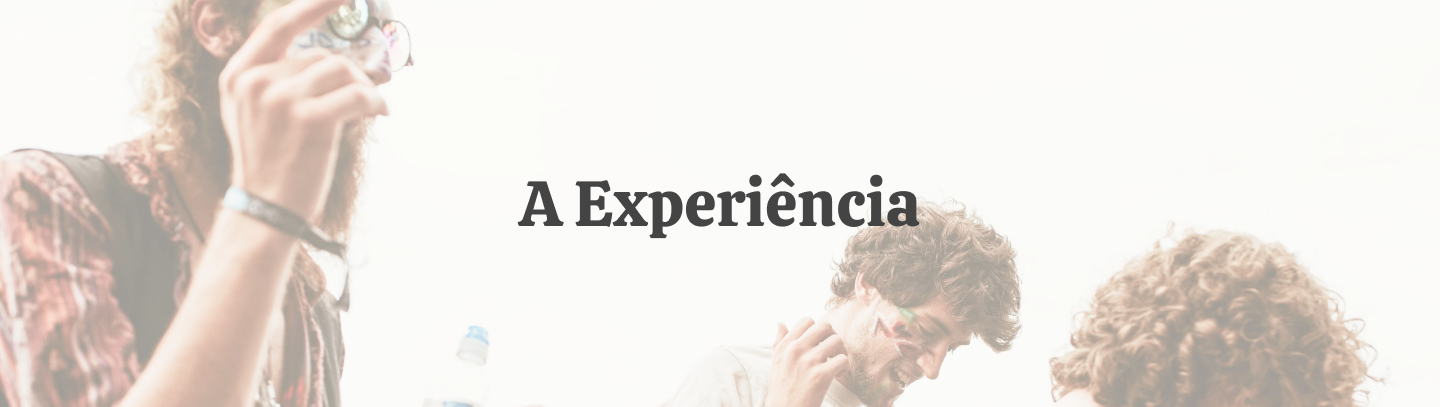
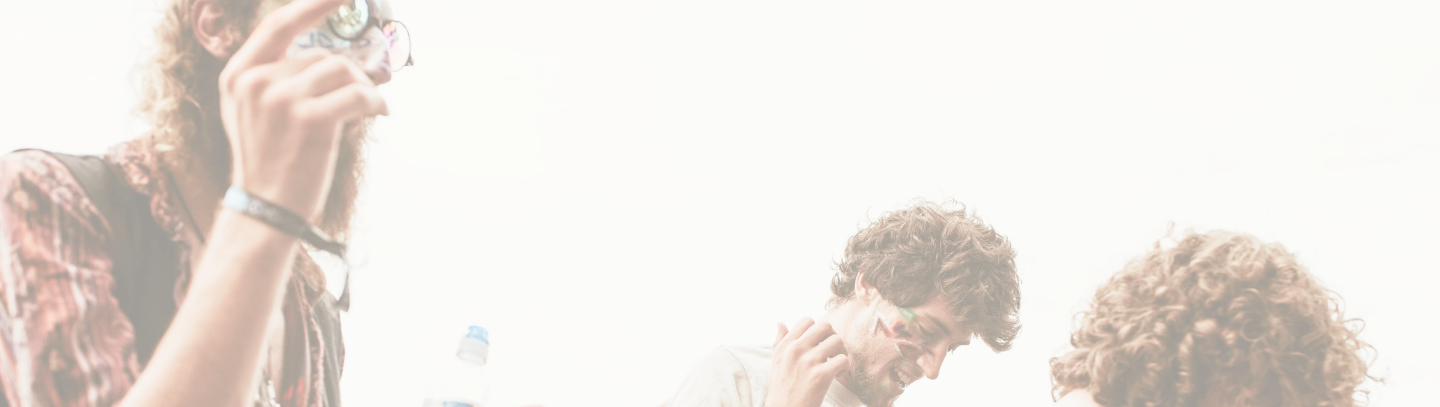
refatorando paginas prontas

Changed region(s): [[0.3438, 0.4128, 0.6562, 0.5897]]

diff --git a/src/pages/Setores/index.jsx b/src/pages/Setores/index.jsx
@@ -1,9 +1,7 @@
 import Banner from '../../components/Banner';
 import styles from './Setores.module.scss';
 import detalhes from './detalhes.json';
-import bannerDesktop from '/Setores/setores-banner_g.png';
-import bannerTablet from '/Setores/setores-banner_m.png';
-import bannerMobile from '/Setores/setores-banner_s.png';
+import bannerDesktop from '/Setores/setores-banner_s_m_g.png';
 
 
 export default function Setores(){
@@ -12,12 +10,11 @@ export default function Setores(){
       <Banner
         src={bannerDesktop}
         alt="céu azul"
-        srcsetTablet={bannerTablet}
-        srcsetMobile={bannerMobile}
+        titulo="Mapa de Setores"
       />
 
       <div className={styles.mapa}>
-        <img src="/mapa-setores.png" alt="mapa de setores" />
+        <img src="/Setores/mapa-setores.png" alt="mapa de setores" />
         <div className={styles.mapa__legenda}>
           <h6>Legenda</h6>
           <ul>

diff --git a/src/pages/Home/index.jsx b/src/pages/Home/index.jsx
@@ -2,9 +2,9 @@ import BuyTicketButton from '../../components/BuyTicketButton';
 import LineUp from './LineUp';
 import styles from './Home.module.scss';
 import Banner from '../../components/Banner';
-import bannerDesktop from '/home-banner-desktop.png';
-import bannerTablet from '/home-banner-tablet.png';
-import bannerMobile from '/home-banner-mobile.png';
+import bannerDesktop from '/Home/home-banner_g.png';
+import bannerTablet from '/Home/home-banner_m.png';
+import bannerMobile from '/Home/home-banner_s.png';
 
 export default function Home() {
   return (
@@ -14,6 +14,7 @@ export default function Home() {
         alt="foto do brinquedo chapéu mexicano"
         srcsetTablet={bannerTablet}
         srcsetMobile={bannerMobile}
+        titulo="Boas-vindas ao #CodeChella2023!"
       />
 
       <div className={styles.container}>

diff --git a/src/components/Banner/Banner.module.scss b/src/components/Banner/Banner.module.scss
@@ -1,4 +1,23 @@
-.banner picture *{
-  height: 405px; 
-  width: 100%;
+@import 'src/styles/variables';
+@import 'src/styles/breakpoints';
+
+.banner {
+  position: relative;
+  h1{
+    color: $cinza;
+    position: absolute;
+    width: 100%;
+    text-align: center;
+    z-index: 5;
+    top: 40%;
+    right: 0;    
+    font-family: 'Calistoga';
+    font-weight: 400;
+    font-size: 4rem;
+    line-height: 83px;
+  }
+  picture *{
+    height: 405px; 
+    width: 100%;
+  }
 }

diff --git a/src/components/Banner/index.jsx b/src/components/Banner/index.jsx
@@ -1,8 +1,9 @@
 import styles from './Banner.module.scss';
 
-export default function Banner({srcsetTablet, srcsetMobile, src, alt}) {
+export default function Banner({titulo, srcsetTablet, srcsetMobile, src, alt}) {
   return (
     <header className={styles.banner}>
+      <h1>{titulo}</h1>
       <picture>
         <source srcSet={srcsetTablet} media= "(min-width: 768px) and (max-width: 1024px)"  />
         <source srcSet={srcsetMobile} media="(max-width: 768px)" />

diff --git a/src/pages/Home/Home.module.scss b/src/pages/Home/Home.module.scss
@@ -7,7 +7,7 @@
     padding: 64px $padding-horizontal;
     gap: 48px; 
 
-    @media (min-width: $tablet) and (max-width: $desktop){
+    @media (max-width: $desktop){
       flex-direction: column;
       align-items: center;
       padding: 2rem 1.5rem;

diff --git a/src/pages/Experiencia/index.jsx b/src/pages/Experiencia/index.jsx
@@ -13,6 +13,7 @@ export default function Experiencia() {
         alt="Pessoas dançando"
         srcsetTablet={bannerTablet}
         srcsetMobile={bannerMobile}
+        titulo="A Experiência"
       />
 
       {experiencias.map((experiencia) => (
